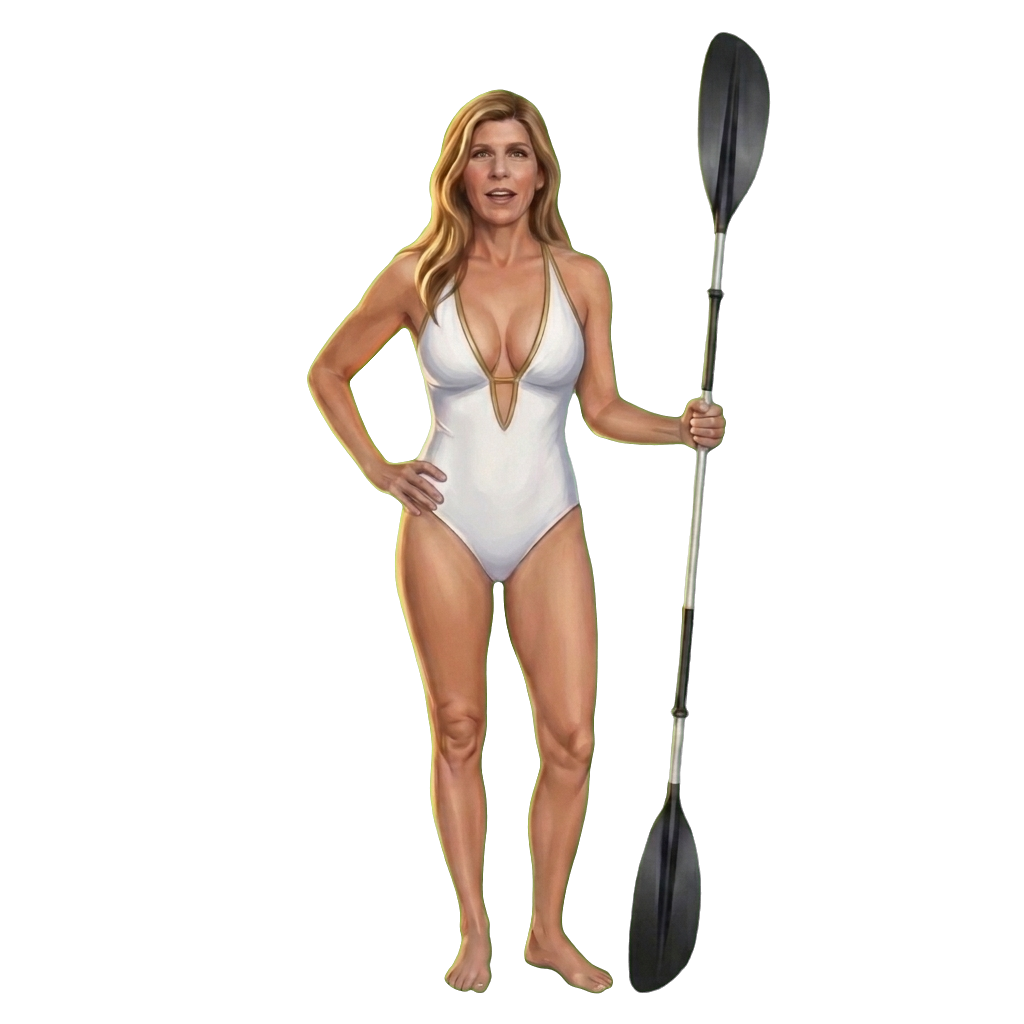
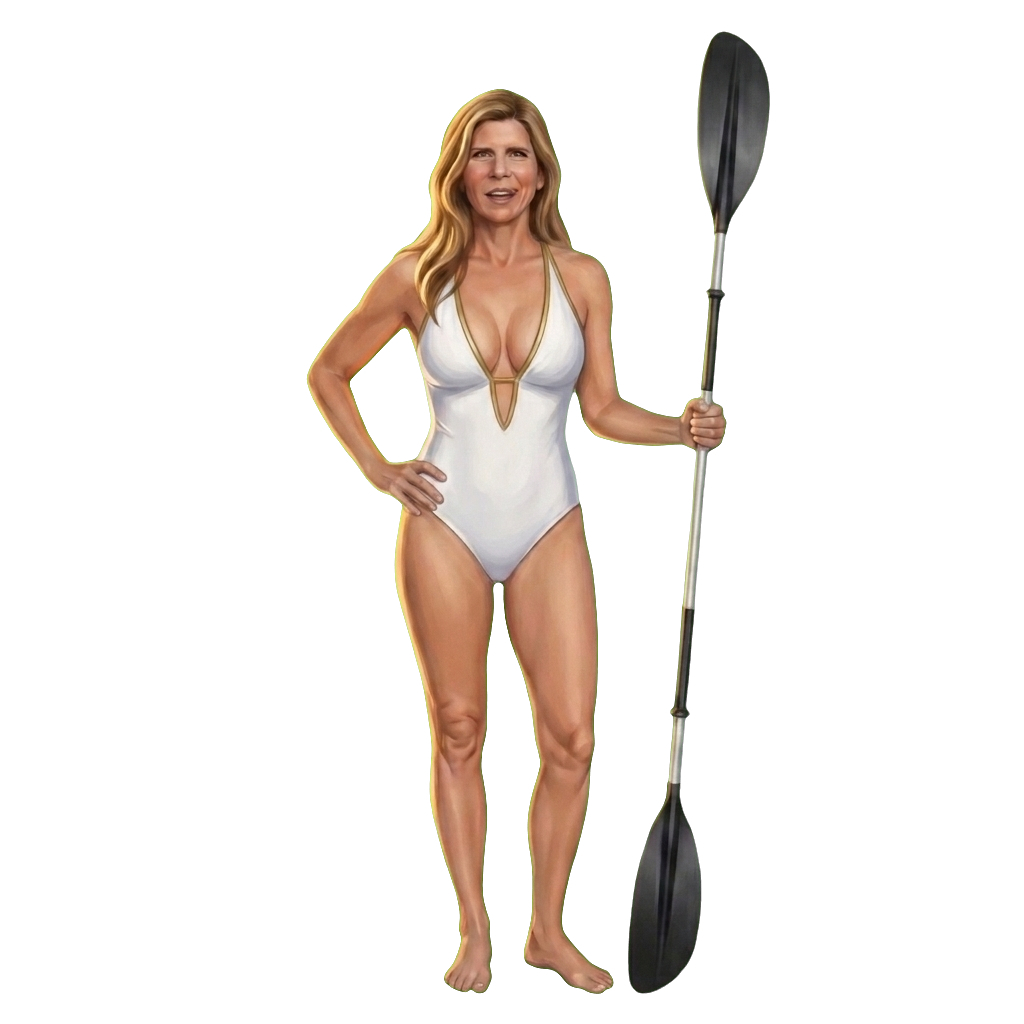
Smooth mouth frames and lip-sync cadence across all outfits, and clean up forecast grammar

Changed region(s): [[0.5, 0.125, 0.5312, 0.1875], [0.4688, 0.1875, 0.5, 0.2188]]

diff --git a/Indies Kayak Forecast/index.html b/Indies Kayak Forecast/index.html
@@ -27,7 +27,7 @@
             animation: indieSpeakBody 2.8s ease-in-out infinite;
         }
         .indie-frame-img {
-            transition: opacity 90ms ease-in-out;
+            transition: opacity 135ms cubic-bezier(0.4, 0, 0.2, 1);
         }
         @keyframes barPulse {
             0%, 100% { transform: scaleY(0.35); }
@@ -2693,19 +2693,29 @@
 
             const airTemp = (document.getElementById('telemetry-airtemp')?.innerText || `${today.high}°F`).replace('°F', ' degrees');
             const waterTemp = (document.getElementById('telemetry-watertemp')?.innerText || '58.8°F').replace('°F', ' degrees');
-            const windNow = (document.getElementById('telemetry-wind')?.innerText || '2 mph')
-                .replace(/\bmph\b/i, 'miles per hour');
+            const rawWind = (document.getElementById('telemetry-wind')?.innerText || '2 mph').trim();
+            const windNow = rawWind.replace(/\bmph\b/i, 'miles per hour');
             const rawSky = (document.getElementById('telemetry-sky')?.innerText || 'Clear Sky').trim().toLowerCase();
 
-            let skySentence = 'clear skies and';
-            if (rawSky.includes('night')) {
-                skySentence = 'a clear night with';
-            } else if (rawSky.includes('clear')) {
-                skySentence = 'clear skies and';
-            } else if (rawSky.includes('sky') || rawSky.includes('skies')) {
-                skySentence = `${rawSky} and`;
-            } else {
-                skySentence = `${rawSky} skies and`;
+            let skyCondition = 'under clear skies';
+            if (rawSky.includes('thunder')) {
+                skyCondition = 'with thunderstorms in the area';
+            } else if (rawSky.includes('rain')) {
+                skyCondition = 'with rain';
+            } else if (rawSky.includes('drizzle')) {
+                skyCondition = 'with light drizzle';
+            } else if (rawSky.includes('fog')) {
+                skyCondition = 'with coastal fog';
+            } else if (rawSky.includes('overcast')) {
+                skyCondition = 'under overcast skies';
+            } else if (rawSky.includes('partly cloudy')) {
+                skyCondition = 'with partly cloudy skies';
+            } else if (rawSky.includes('mostly clear')) {
+                skyCondition = 'under mostly clear skies';
+            } else if (rawSky.includes('mostly sunny')) {
+                skyCondition = 'under mostly sunny skies';
+            } else if (rawSky.includes('night')) {
+                skyCondition = 'under a clear night sky';
             }
 
             const nowMins = getCurrentMinutesOfDay();
@@ -2715,6 +2725,7 @@
 
             const formatSpokenWindow = (text) => text
                 .replace(/^Tomorrow:\s*/i, '')
+                .replace(/^(Mon|Tue|Wed|Thu|Fri|Sat|Sun)\s+/i, '')
                 .replace(/\s*[–—-]\s*/g, ' to ')
                 .replace(/\bNow\b/g, 'now');
 
@@ -2734,8 +2745,8 @@
                 windowPhrase = `Since it's already after dark in Morro Bay, his next best launch window ${sitePrep.toLowerCase()} is tomorrow from ${spokenWindow}.`;
             } else if (liveRainState.isRaining) {
                 const nextDry = findNextDryDaylightWindow(0, nowMins, currentSite);
-                const nextDayLabel = nextDry.dayIdx === 0 ? 'later today' : (nextDry.dayIdx === 1 ? 'tomorrow' : nextDry.dayObj.day);
-                windowPhrase = `Since it's raining right now, I'm advising him to stay ashore—his next dry daylight window ${sitePrep.toLowerCase()} is ${nextDayLabel} around ${formatMinutesToTime(nextDry.startMins)}.`;
+                const nextDayLabel = nextDry.dayIdx === 0 ? 'later today' : (nextDry.dayIdx === 1 ? 'tomorrow' : `on ${nextDry.dayObj.day}`);
+                windowPhrase = `Since it's raining right now, I'm advising him to stay ashore. His next dry daylight launch window ${sitePrep.toLowerCase()} is ${nextDayLabel} around ${formatMinutesToTime(nextDry.startMins)}.`;
             } else {
                 const windowClause = spokenWindow.includes('now')
                     ? `is ${spokenWindow}`
@@ -2747,23 +2758,27 @@
             }
 
             const flirtyClosings = [
-                `Don't stay out on the water too long, handsome. I'll be waiting right here on the sand to warm you up.`,
-                `Paddle fast back to shore, Chris. I've got much better plans for us once you're out of that kayak.`,
+                `Don't stay out on the water too long, handsome—I'll be waiting right here on the sand to warm you up.`,
+                `Paddle back to shore quickly, Chris—I have much better plans for us once you're out of that kayak.`,
                 `Enjoy the smooth ride on the bay, babe, because the best part of your day is waiting for you right back home.`
             ];
             const closing = liveRainState.isRaining
-                ? `Stay dry with me inside today, handsome—we can hit the bay as soon as the rain clears.`
+                ? `Stay dry inside with me today, handsome—we can head out on the bay as soon as the rain clears.`
                 : flirtyClosings[Math.max(0, indieOutfitIdx) % flirtyClosings.length];
 
             const intro = liveRainState.isRaining
-                ? `${timeGreeting}! I'm Indie, your Morro Bay Alta Court weather girl. Chris's kayak is staying dry indoors today because of the rain, and I definitely don't want him out on the water getting soaked. Here's what's happening.`
-                : `${timeGreeting}! I'm Indie, your Morro Bay Alta Court weather girl. I've got Chris's kayak out and ready for the bay, though honestly, watching him paddle out here is only half the fun. Here's what he can expect.`;
+                ? `${timeGreeting}! I'm Indie, your Morro Bay Alta Court weather girl. Chris's kayak is staying dry indoors today because of the rain, and I definitely don't want him getting soaked out on the water. Here's what's happening on the bay.`
+                : `${timeGreeting}! I'm Indie, your Morro Bay Alta Court weather girl. I have Chris's kayak out and ready for the bay, though honestly, watching him paddle out here is only half the fun. Here is what he can expect.`;
 
             const rainNote = (!liveRainState.isRaining && today.precipProb >= 30)
-                ? ` There's also a ${today.precipProb} percent chance of rain today, so keep an eye on the sky.`
+                ? ` There is also a ${today.precipProb} percent chance of rain today, so keep an eye on the sky.`
                 : '';
 
-            const weatherSummary = `Right now we have ${skySentence} ${airTemp}, with a water temperature of ${waterTemp}—just cool enough to give him a great excuse to let me warm him up later—and winds around ${windNow}. Today's high will reach ${today.high} degrees, with a low of ${today.low}.${rainNote}`;
+            const windClause = (!rawWind || rawWind === '--' || /n\/a/i.test(rawWind))
+                ? 'and light winds'
+                : `and winds around ${windNow}`;
+
+            const weatherSummary = `Right now, it's ${airTemp} ${skyCondition}, with a water temperature of ${waterTemp}—just cool enough to give him a great excuse to let me warm him up later—${windClause}. Today's high will reach ${today.high} degrees, with a low of ${today.low}.${rainNote}`;
 
             return `${intro} ${weatherSummary} ${tidePhrase} ${windowPhrase} ${closing}`;
         }
@@ -2827,18 +2842,20 @@
                 startIndieMouthAnimation();
             };
 
+            let indieLastMouthAt = 0;
             utter.onboundary = (e) => {
-                indieLastBoundaryAt = Date.now();
+                const now = Date.now();
+                indieLastBoundaryAt = now;
                 if (typeof e.charIndex === 'number') {
                     renderIndieCaptionAt(e.charIndex);
+                    if (now - indieLastMouthAt < 115) return;
+                    indieLastMouthAt = now;
                     const wordMatch = indieCurrentScript.slice(e.charIndex).match(/^\S+/);
                     const word = wordMatch ? wordMatch[0].toLowerCase() : '';
                     if (/[ao]/.test(word) && word.length > 4) {
                         setIndieMouthFrame('open');
                     } else if (word.length > 0) {
                         setIndieMouthFrame('mid');
-                    } else {
-                        setIndieMouthFrame('closed');
                     }
                 }
             };
